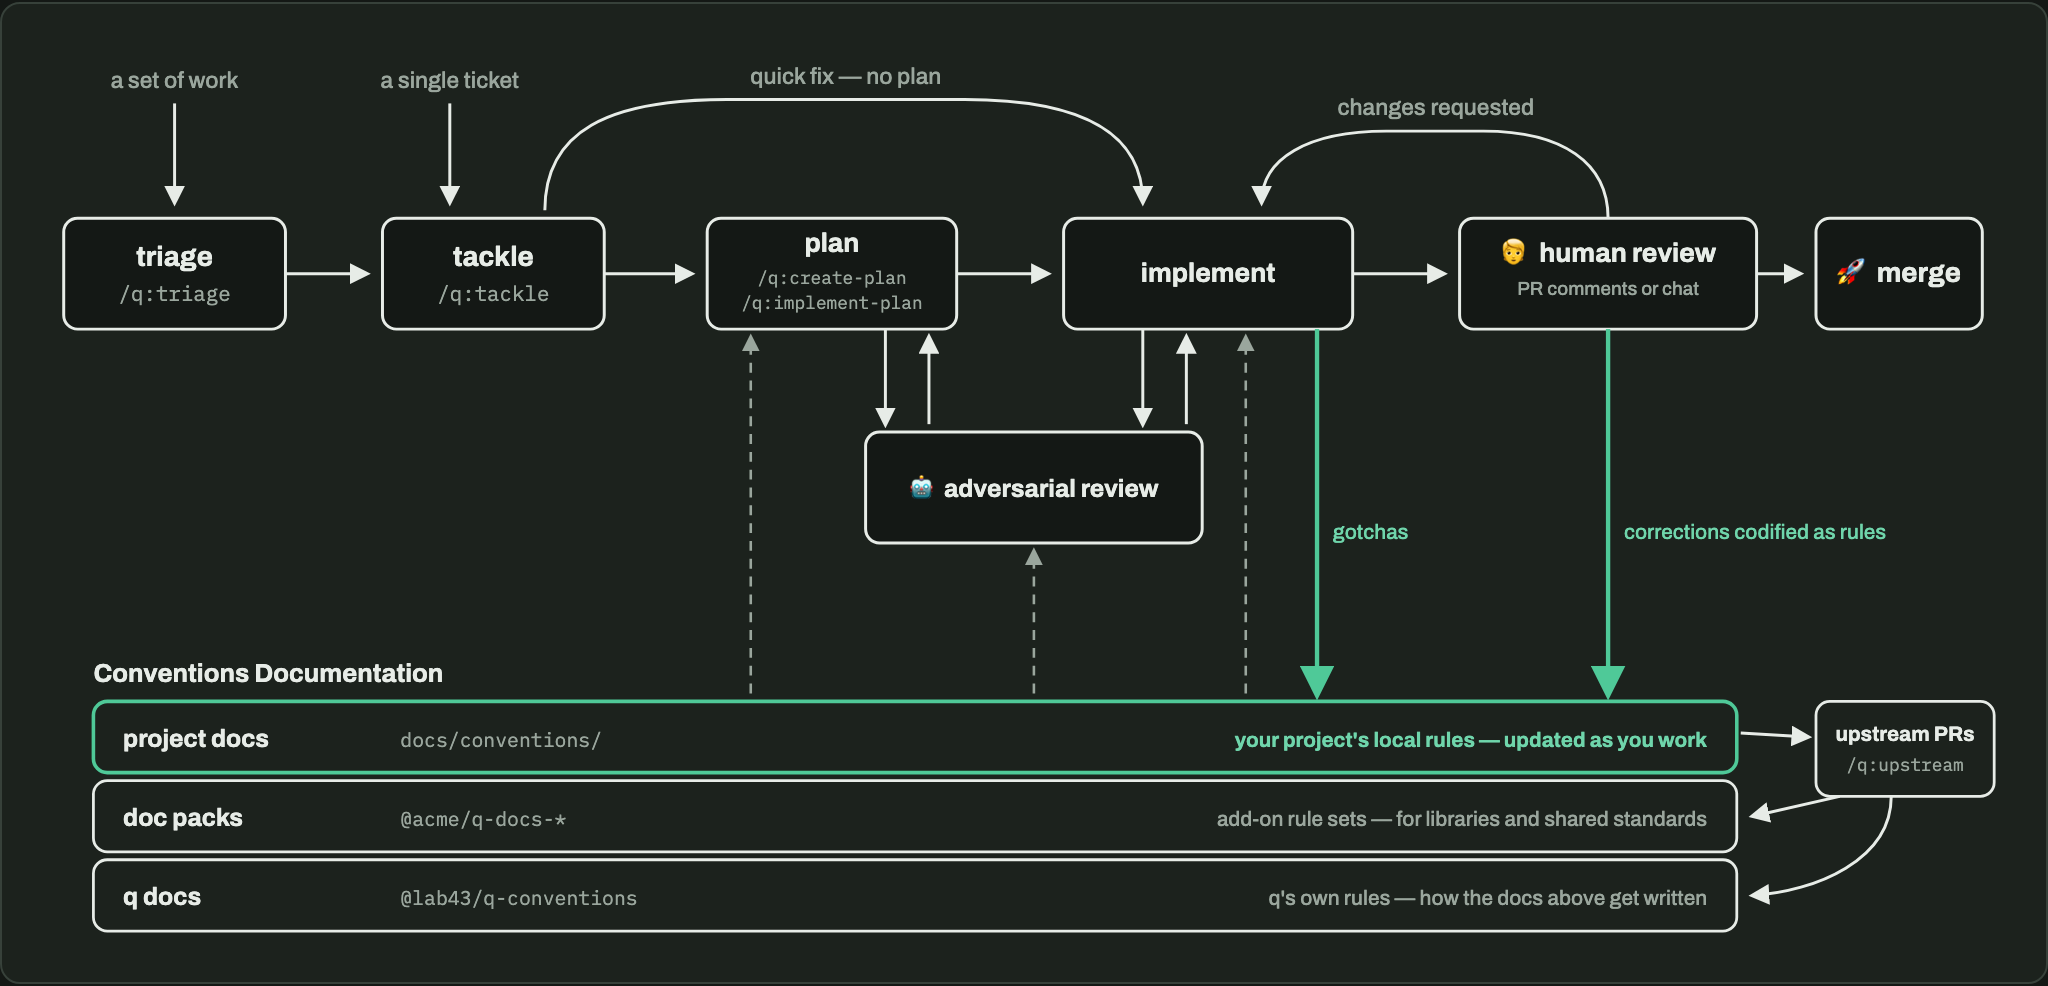
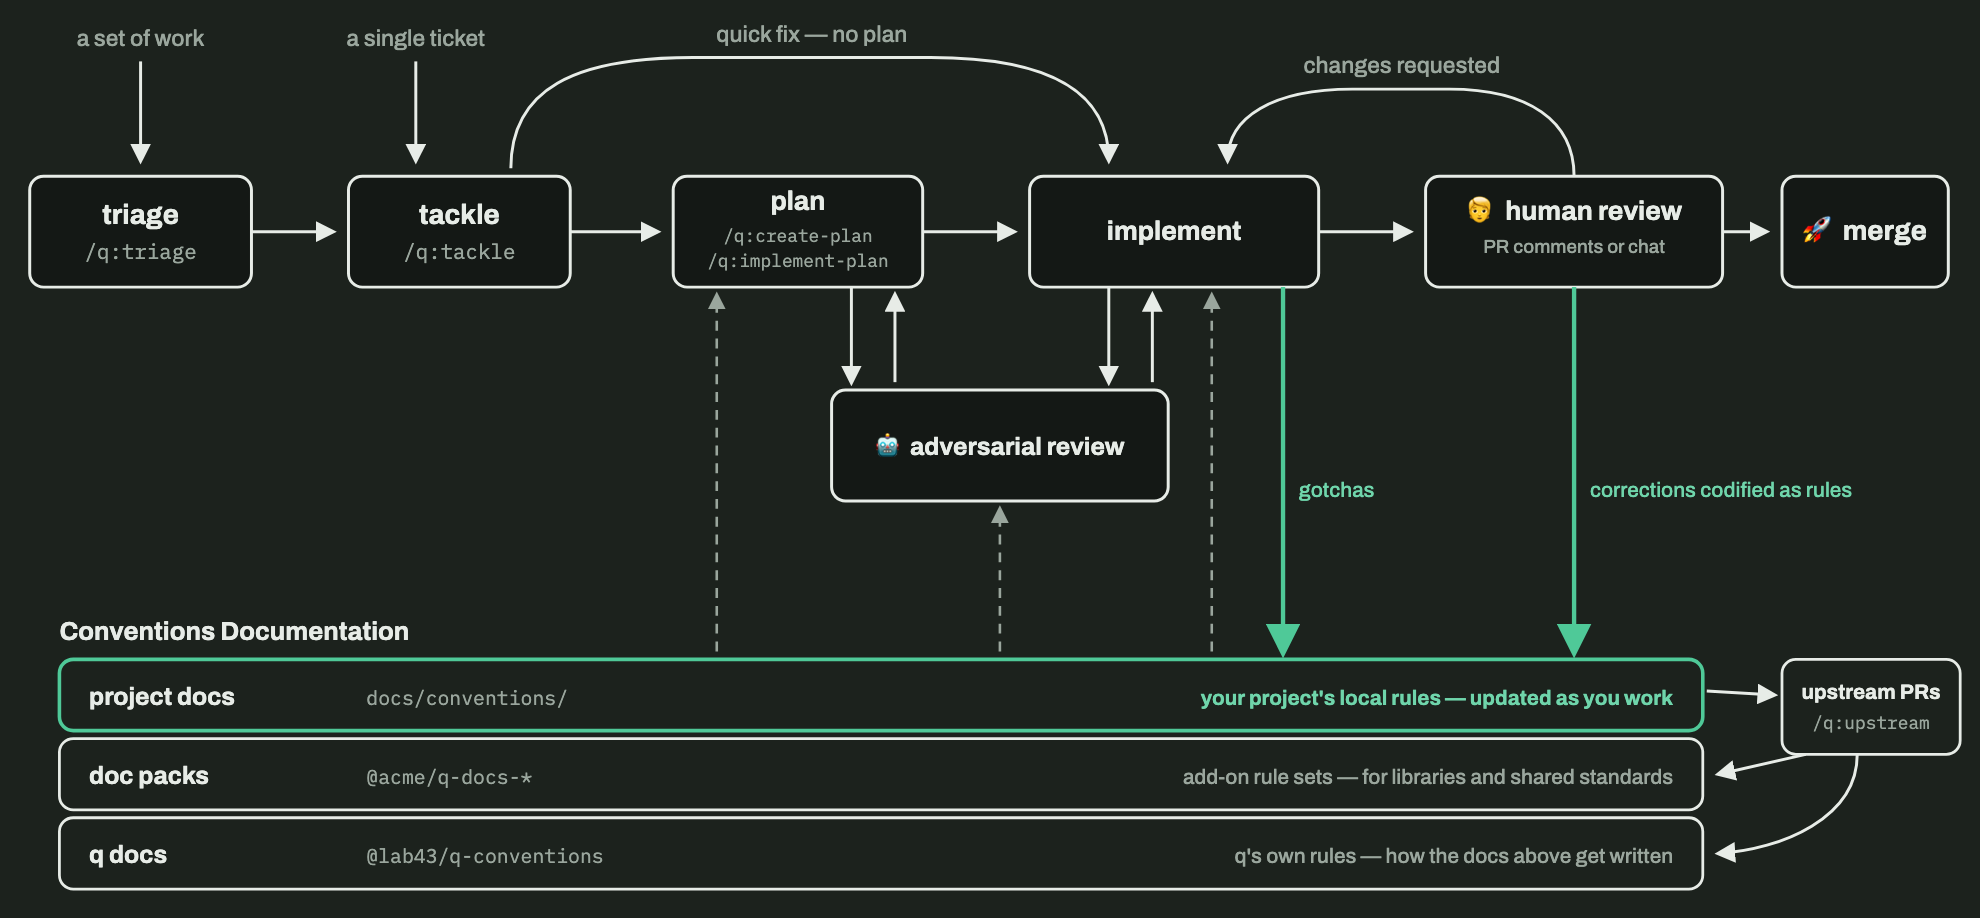
Crop the workflow chart screenshots to the SVG

diff --git a/docs/workflow-chart/screenshot.py b/docs/workflow-chart/screenshot.py
@@ -23,7 +23,7 @@ with sync_playwright() as p:
         page.goto(SRC)
         page.wait_for_load_state("networkidle")
         page.wait_for_timeout(500)  # let webfonts settle before capture
-        page.locator(".diagram-frame").screenshot(path=HERE / f"{scheme}.png")
+        page.locator(".diagram-frame svg").screenshot(path=HERE / f"{scheme}.png")
         ctx.close()
     browser.close()
 print("wrote light.png and dark.png")
